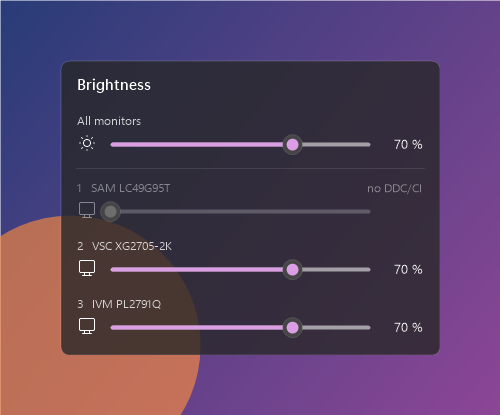
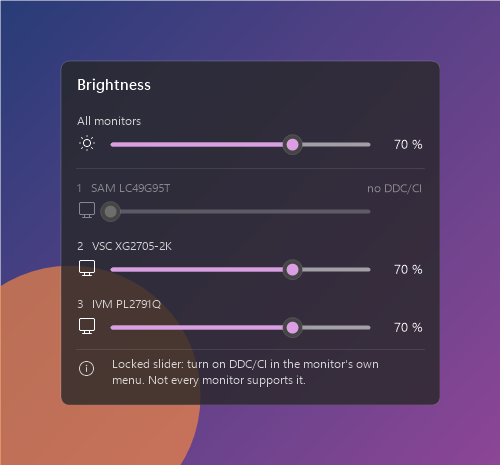
Auto-detect monitors, DDC/CI hint, MIT license (v1.2.0)
- Reload the monitor list automatically on display changes
  (plugged in, unplugged, switched on), after a 2 s delay
- Flyout footer and CLI hint on how to enable DDC/CI
- Stop pending timers when the flyout is rebuilt
- Add MIT license and license badge
- README: "Enabling DDC/CI" section, fix broken special characters

diff --git a/BrightnessFlyout.cs b/BrightnessFlyout.cs
@@ -13,8 +13,8 @@ using System.Windows.Forms;
 [assembly: AssemblyTitle("Brightness Flyout")]
 [assembly: AssemblyDescription("Control the brightness of external monitors via DDC/CI")]
 [assembly: AssemblyProduct("Brightness Flyout")]
-[assembly: AssemblyVersion("1.1.0.0")]
-[assembly: AssemblyFileVersion("1.1.0.0")]
+[assembly: AssemblyVersion("1.2.0.0")]
+[assembly: AssemblyFileVersion("1.2.0.0")]
 
 // UI language follows Windows: German on German systems, English everywhere else.
 static class L
@@ -327,7 +327,7 @@ static class Layered
 // rounded, translucent, slides in from below. Everything is drawn by hand.
 class BrightnessPanel : Form
 {
-    const int RowH = 58, Header = 46, SepH = 9, Pad = 16, Radius = 8, Slide = 40, AnimMs = 260;
+    const int RowH = 58, Header = 46, SepH = 9, Pad = 16, Radius = 8, Slide = 40, AnimMs = 260, FooterH = 50;
 
     readonly List<Monitor> monitors;
     readonly int[] values;   // [0] = all monitors, [i+1] = monitor i
@@ -338,6 +338,7 @@ class BrightnessPanel : Form
     readonly Color accent;
     readonly float s; // DPI scale
     readonly int W, H;
+    readonly bool showHint; // at least one monitor without DDC/CI -> explain how to fix it
     readonly Font fTitle, fLabel, fValue, fIcon;
     Point target, pos;
     int visibleBottom = int.MaxValue; // bottom of the work area: anything below is clipped
@@ -377,8 +378,9 @@ class BrightnessPanel : Form
             debounce[i] = t;
         }
 
+        showHint = monitors.Exists(delegate (Monitor m) { return !m.Supported; });
         W = S(380);
-        H = S(Header + n * RowH + SepH + 8);
+        H = S(Header + n * RowH + SepH + 8 + (showHint ? FooterH : 0));
         fTitle = new Font(FontOr("Segoe UI Variable Display Semib", "Segoe UI Semibold"), 11f * s, GraphicsUnit.Point);
         fLabel = new Font(FontOr("Segoe UI Variable Text", "Segoe UI"), 9f * s, GraphicsUnit.Point);
         fValue = new Font(FontOr("Segoe UI Variable Text", "Segoe UI"), 9.5f * s, GraphicsUnit.Point);
@@ -572,8 +574,41 @@ class BrightnessPanel : Form
                 g.DrawLine(pen, S(Pad), sepY, W - S(Pad), sepY);
 
             for (int i = 0; i < values.Length; i++) DrawRow(g, i, fg);
+            if (showHint) DrawHint(g, fg);
         }
         return b;
+    }
+
+    // Footer with a short how-to for monitors whose slider is locked.
+    void DrawHint(Graphics g, Color fg)
+    {
+        int top = RowTop(values.Length) + S(2);
+        Color fg2 = Color.FromArgb(light ? 165 : 200, fg);
+        using (Pen pen = new Pen(light ? Color.FromArgb(22, 0, 0, 0) : Color.FromArgb(26, 255, 255, 255), 1f))
+            g.DrawLine(pen, S(Pad), top, W - S(Pad), top);
+
+        StringFormat center = new StringFormat();
+        center.Alignment = StringAlignment.Center;
+        center.LineAlignment = StringAlignment.Center;
+        using (SolidBrush br = new SolidBrush(fg2))
+        {
+            // E946 = info icon
+            g.DrawString("", fIcon, br, new RectangleF(S(Pad) - S(2), top + S(8), S(26), S(26)), center);
+            g.DrawString(L.T("Locked slider: turn on DDC/CI in the monitor's own menu. Not every monitor supports it.",
+                             "Gesperrter Regler: DDC/CI im Menü des Monitors einschalten. Nicht jeder Monitor kann das."),
+                fLabel, br, new RectangleF(TrackX0, top + S(6), W - TrackX0 - S(Pad), S(FooterH - 8)));
+        }
+    }
+
+    protected override void Dispose(bool disposing)
+    {
+        // Stop pending timers so nothing is sent to monitor handles that are about to be released.
+        if (disposing)
+        {
+            anim.Stop();
+            foreach (System.Windows.Forms.Timer t in debounce) t.Stop();
+        }
+        base.Dispose(disposing);
     }
 
     void DrawRow(Graphics g, int i, Color fg)
@@ -713,6 +748,7 @@ class TrayApp : ApplicationContext
     readonly NotifyIcon icon = new NotifyIcon();
     readonly Control invoker = new Control(); // for calls from other threads
     readonly ToolStripMenuItem autostart;
+    readonly System.Windows.Forms.Timer redetect = new System.Windows.Forms.Timer();
     List<Monitor> monitors;
     BrightnessPanel panel;
 
@@ -733,7 +769,7 @@ class TrayApp : ApplicationContext
             menu.Items.Add(L.T("All to ", "Alle auf ") + p + " %", null, delegate { SetAll(preset); });
         }
         menu.Items.Add(new ToolStripSeparator());
-        menu.Items.Add(L.T("Re-detect monitors", "Monitore neu erkennen"), null, delegate { Reload(); });
+        menu.Items.Add(L.T("Re-detect monitors", "Monitore neu erkennen"), null, delegate { Reload(true); });
         autostart = new ToolStripMenuItem(L.T("Start with Windows", "Mit Windows starten"), null, delegate { ToggleAutostart(); });
         autostart.Checked = AutostartEnabled();
         menu.Items.Add(autostart);
@@ -755,7 +791,19 @@ class TrayApp : ApplicationContext
         waiter.IsBackground = true;
         waiter.Start();
 
+        // Monitor plugged in/out or switched on/off -> Windows reports a display change.
+        // Wait a moment until the monitor answers on DDC/CI, then reload the list.
+        redetect.Interval = 2000;
+        redetect.Tick += delegate { redetect.Stop(); Reload(panel.Visible); };
+        Microsoft.Win32.SystemEvents.DisplaySettingsChanged += OnDisplayChanged;
+
         if (showPanel) panel.ShowNearTray();
+    }
+
+    void OnDisplayChanged(object sender, EventArgs e)
+    {
+        // May arrive on another thread: restart the delay on the UI thread.
+        invoker.BeginInvoke((MethodInvoker)delegate { redetect.Stop(); redetect.Start(); });
     }
 
     void BuildPanel()
@@ -782,14 +830,14 @@ class TrayApp : ApplicationContext
         });
     }
 
-    void Reload()
+    void Reload(bool showAfter)
     {
         panel.Dispose();
         Monitors.Release();
         monitors = Monitors.Load();
         BuildPanel();
         UpdateTooltip();
-        panel.ShowNearTray();
+        if (showAfter) panel.ShowNearTray();
     }
 
     void UpdateTooltip()
@@ -831,6 +879,8 @@ class TrayApp : ApplicationContext
 
     void Quit()
     {
+        Microsoft.Win32.SystemEvents.DisplaySettingsChanged -= OnDisplayChanged;
+        redetect.Stop();
         icon.Visible = false;
         icon.Dispose();
         Monitors.Release();
@@ -889,6 +939,12 @@ static class Program
                     Console.WriteLine("{0}  {1,-28} {2}", i + 1, m.Name, m.Supported ? m.Percent + " %" : L.T("no DDC/CI", "kein DDC/CI"));
                 }
                 Console.WriteLine();
+                if (monitors.Exists(delegate (Monitor m) { return !m.Supported; }))
+                {
+                    Console.WriteLine(L.T("No DDC/CI: turn it on in the monitor's own menu. Not every monitor supports it.",
+                                          "Kein DDC/CI: im Menü des Monitors einschalten. Nicht jeder Monitor kann das."));
+                    Console.WriteLine();
+                }
                 Console.WriteLine(usage);
                 return 0;
             }

diff --git a/README.md b/README.md
@@ -2,6 +2,7 @@
 
 [![Release](https://img.shields.io/github/v/release/stonymahomie/monitor-brightness-flyout?label=release)](https://github.com/stonymahomie/monitor-brightness-flyout/releases/latest)
 [![Downloads](https://img.shields.io/github/downloads/stonymahomie/monitor-brightness-flyout/total?color=blue)](https://github.com/stonymahomie/monitor-brightness-flyout/releases)
+[![License: MIT](https://img.shields.io/badge/license-MIT-yellow)](LICENSE)
 ![Platform](https://img.shields.io/badge/platform-Windows%2010%20%7C%2011-0078D6?logo=windows&logoColor=white)
 ![C#](https://img.shields.io/badge/C%23-.NET%20Framework%204.x-512BD4?logo=dotnet&logoColor=white)
 ![Dependencies](https://img.shields.io/badge/dependencies-none-brightgreen)
@@ -17,7 +18,8 @@ Windows only has a brightness slider for built-in laptop screens. This tool talk
 ## Features
 
 - **Tray icon + Windows 11 style flyout:** rounded corners, translucent blurred background, slide-in animation and sliders in your Windows accent color
-- **One slider per monitor** plus an "All monitors" slider; mouse wheel adjusts by Â±2 %
+- **One slider per monitor** plus an "All monitors" slider; mouse wheel adjusts by ±2 %
+- **Plug and play:** monitors that are plugged in, unplugged or switched on are picked up automatically
 - **Command line** for scripts, hotkeys and scheduled tasks
 - **Start with Windows** from the tray menu
 - **UI language follows Windows** (English, or German on German systems)
@@ -27,7 +29,7 @@ Windows only has a brightness slider for built-in laptop screens. This tool talk
 
 Grab `BrightnessFlyout.exe` from the [latest release](https://github.com/stonymahomie/monitor-brightness-flyout/releases/latest) and run it. Nothing to install.
 
-> The `.exe` is not code-signed, so Windows SmartScreen may warn on first launch. Click **More info â†’ Run anyway**, or build it yourself (see below).
+> The `.exe` is not code-signed, so Windows SmartScreen may warn on first launch. Click **More info → Run anyway**, or build it yourself (see below).
 
 ## Usage
 
@@ -36,7 +38,7 @@ Run `BrightnessFlyout.exe`. A sun icon appears in the notification area (on Wind
 | Action | Result |
 |---|---|
 | Left click on the icon | Open the flyout with the sliders |
-| Mouse wheel over a slider | Â±2 % |
+| Mouse wheel over a slider | ±2 % |
 | `Esc` or click outside | Close the flyout |
 | Right click on the icon | All to 100/75/50/25 %, re-detect monitors, start with Windows, exit |
 
@@ -53,13 +55,23 @@ BrightnessFlyout.exe 3 +10       monitor 3 10 % brighter (-10 = darker)
 
 Monitors are numbered from left to right.
 
+## Enabling DDC/CI
+
+The app can only control monitors that have **DDC/CI** switched on. A monitor without it shows **"no DDC/CI"** and a locked slider, and the flyout shows a short hint.
+
+1. Open your monitor's own on-screen menu with the buttons or joystick on the monitor.
+2. Look for an option called **DDC/CI**, **DDC**, **External control** or similar. It's usually under *System*, *Setup*, *Other* or *General*.
+3. Turn it **on**.
+4. Open the flyout again. The slider unlocks by itself, since the app asks every monitor again each time the flyout opens.
+
+**Not every monitor supports DDC/CI.** Some models don't have the option at all, some only support it on certain inputs (e.g. DisplayPort but not HDMI, or the other way round), and some docking stations, adapters and KVM switches don't pass it through. If there's no such option, try a different cable or input; otherwise that monitor can only be dimmed with its own buttons.
+
 ## Requirements and limitations
 
-- **DDC/CI must be enabled in the monitor's on-screen menu.** Monitors without it show up as "no DDC/CI" with a locked slider.
-- Some docking stations, adapters and KVM switches don't pass DDC/CI through.
-- DDC/CI is slow (about 50â€“100 ms per command), so a value is only sent once a slider rests for a moment.
+- Windows 10 or 11 with .NET Framework 4.x (included in Windows)
+- Monitors with DDC/CI turned on (see above)
+- DDC/CI is slow (about 50–100 ms per command), so a value is only sent once a slider rests for a moment.
 - Built-in laptop screens are not supported (they don't use DDC/CI).
-- Monitors plugged in while the app runs need **Re-detect monitors** from the tray menu.
 
 ## Building
 
@@ -69,7 +81,7 @@ Only needs Windows with .NET Framework 4.x (included in Windows 10 and 11):
 build.cmd
 ```
 
-This calls the built-in compiler (`%WINDIR%\Microsoft.NET\Framework64\v4.0.30319\csc.exe`), which only supports C# 5, so the code avoids `$"â€¦"` strings and `?.`.
+This calls the built-in compiler (`%WINDIR%\Microsoft.NET\Framework64\v4.0.30319\csc.exe`), which only supports C# 5, so the code avoids `$"…"` strings and `?.`.
 
 `BrightnessFlyout.exe --render preview.png [en-US]` saves the flyout as an image, handy for checking the look without opening it.
 
@@ -77,6 +89,7 @@ This calls the built-in compiler (`%WINDIR%\Microsoft.NET\Framework64\v4.0.30319
 
 - **Brightness:** `dxva2.dll` (`GetMonitorBrightness` / `SetMonitorBrightness`), the Windows API for DDC/CI
 - **Monitor names:** EDID data via WMI (`WmiMonitorID`)
+- **Plug and play:** `SystemEvents.DisplaySettingsChanged`, then the monitor list is reloaded after a 2 second delay
 - **Flyout:** drawn entirely with GDI+ into a layered window (`UpdateLayeredWindow`), blur via `SetWindowCompositionAttribute`, accent color from `AccentPalette`
 - **Autostart:** `HKCU\Software\Microsoft\Windows\CurrentVersion\Run`, value `BrightnessFlyout`
 
@@ -85,3 +98,7 @@ This calls the built-in compiler (`%WINDIR%\Microsoft.NET\Framework64\v4.0.30319
 Most of the work on this project was done by **[Claude](https://www.anthropic.com/claude)**, Anthropic's AI model, in [Claude Code](https://claude.com/claude-code): the code, the Windows 11 flyout design, the debugging and this README.
 
 [stonymahomie](https://github.com/stonymahomie) had the idea, tested everything on a real three-monitor setup and steered the design.
+
+## License
+
+[MIT](LICENSE) © 2026 stonymahomie
